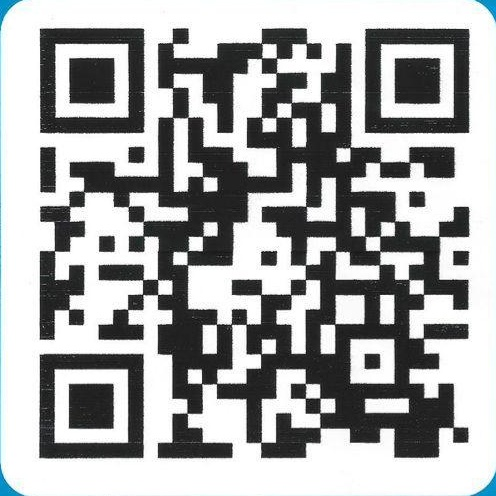
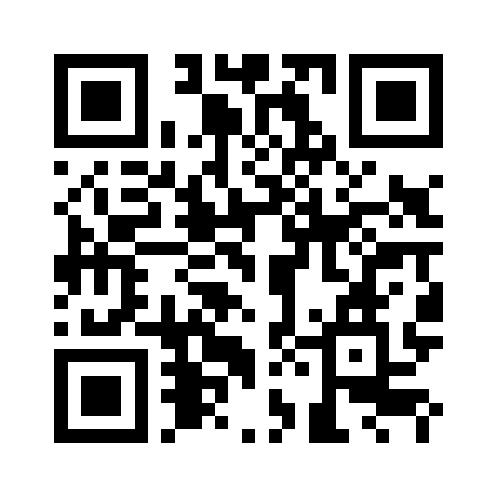
fix: mettre à jour le QR code et le lien Wave de paiement.
Remplace l'ancien lien mqr/F0I71H-9 par le nouveau lien Wave officiel.

diff --git a/lib/payments.ts b/lib/payments.ts
@@ -1,4 +1,4 @@
-export const WAVE_PAY_URL = "https://pay.wave.com/mqr/F0I71H-9" as const;
+export const WAVE_PAY_URL = "https://pay.wave.com/m/M_sn_LR6gwuT5g4L3/c/sn" as const;
 export const ORANGE_MONEY_PAY_URL = "https://sugu.orange-sonatel.com/bill/partners/423" as const;
 
 export const WAVE_QR_PATH = "/qr/wave-card.jpeg" as const;
